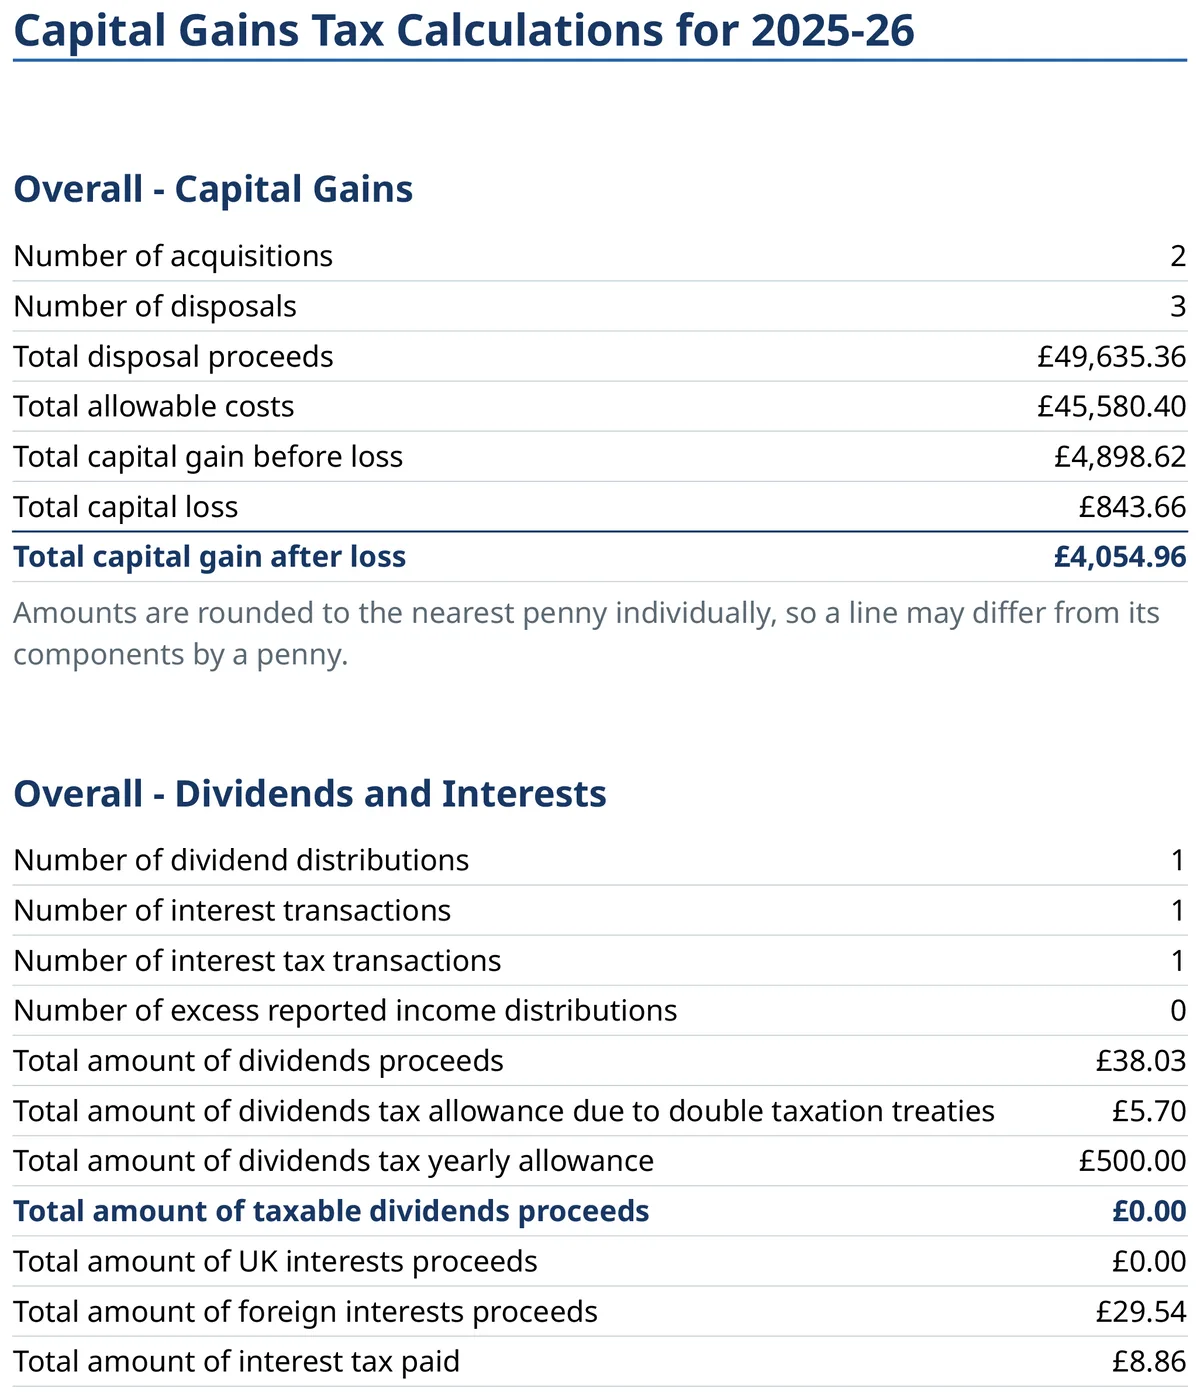
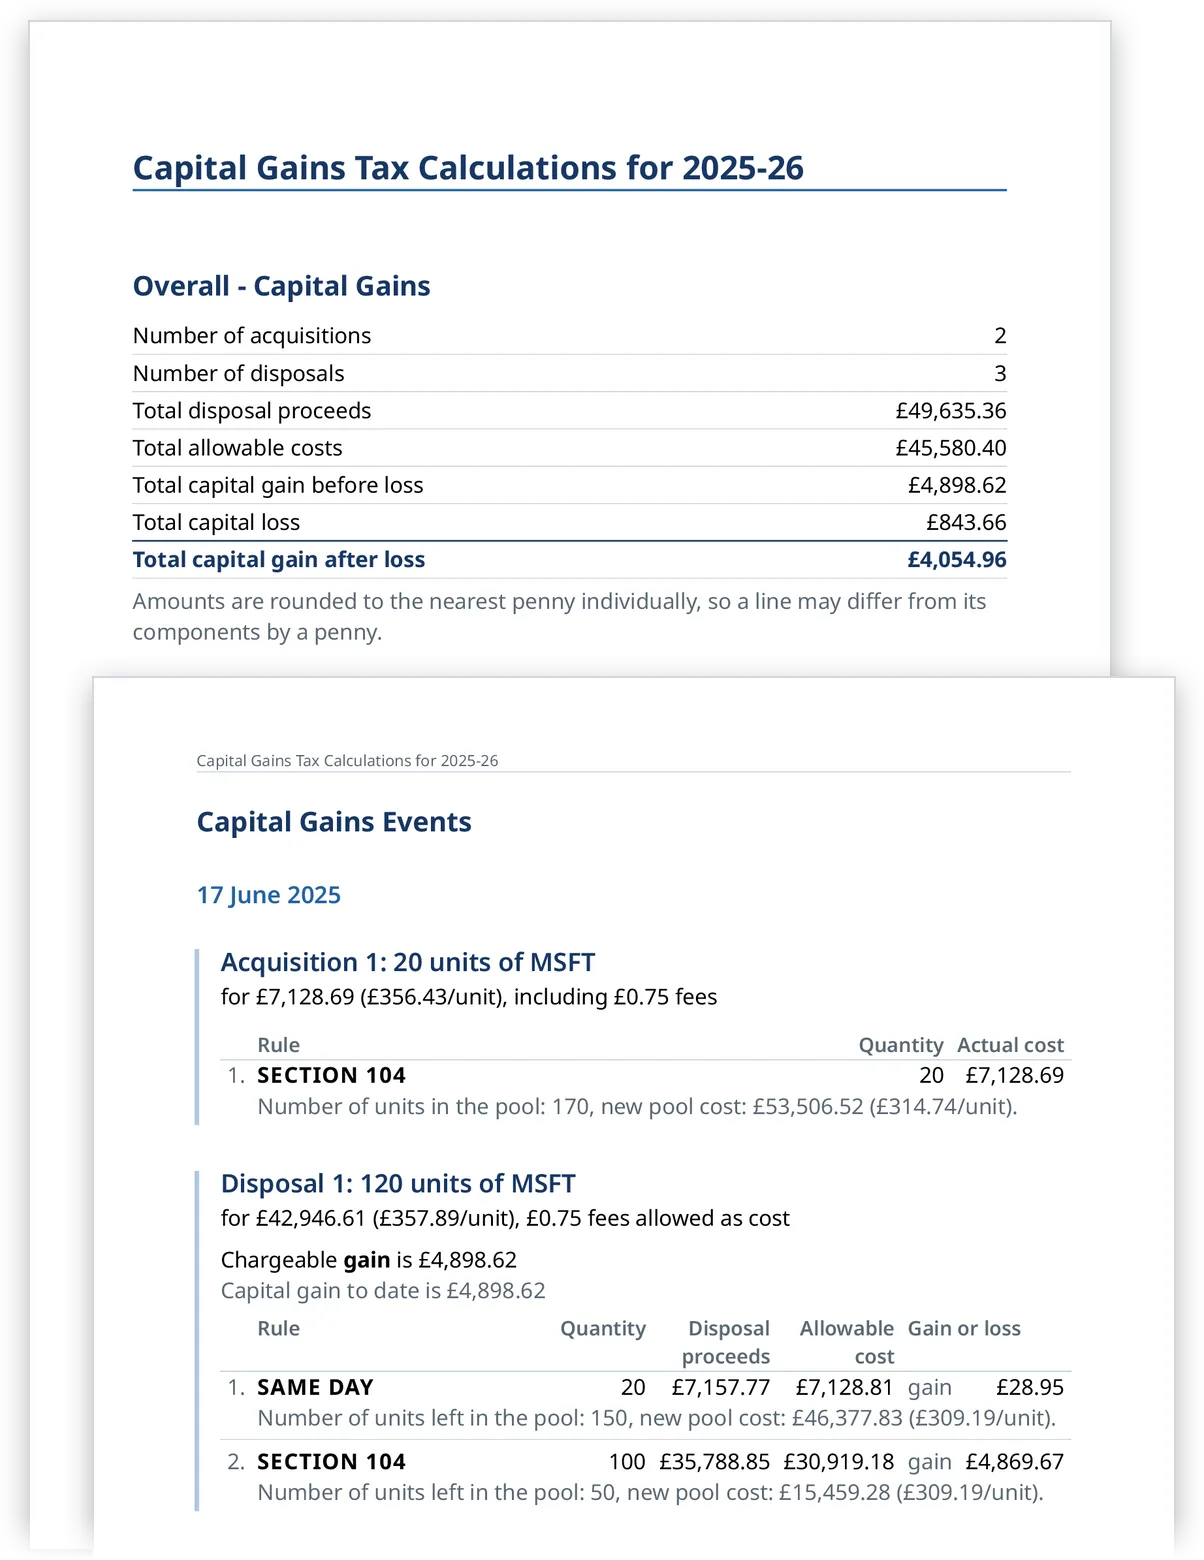
Show two overlapping report pages in the README preview
Rebuild the README teaser as page 2 of the example report lying on page 1,
each with a thin edge and soft shadow, faded out below the first disposal.
Point the README's example link and preview at next.cgt-calc.uk, which
serves the docs built from main.

Changed region(s): [[0.0, 0.0, 0.9867, 0.9836], [0.7092, 0.6455, 0.8942, 0.7377]]

diff --git a/README.md b/README.md
@@ -49,8 +49,8 @@ relying on the result.
 This compact 2025/26 example shows foreign-currency transactions, how sales are matched with shares
 acquired at different times, gains and losses, a dividend with overseas tax, and cash interest.
 
-<a href="https://cgt-calc.uk/assets/example_report.pdf">
-  <img src="https://cgt-calc.uk/assets/example_report_preview.webp" alt="Preview of the 2025/26 example report" width="600">
+<a href="https://next.cgt-calc.uk/assets/example_report.pdf">
+  <img src="https://next.cgt-calc.uk/assets/example_report_preview.webp" alt="Pages 1 and 2 of the 2025/26 example report, overlapping: the capital gains summary and the first capital gains events" width="600">
 </a>
 
 ## 🤝 Contributing
